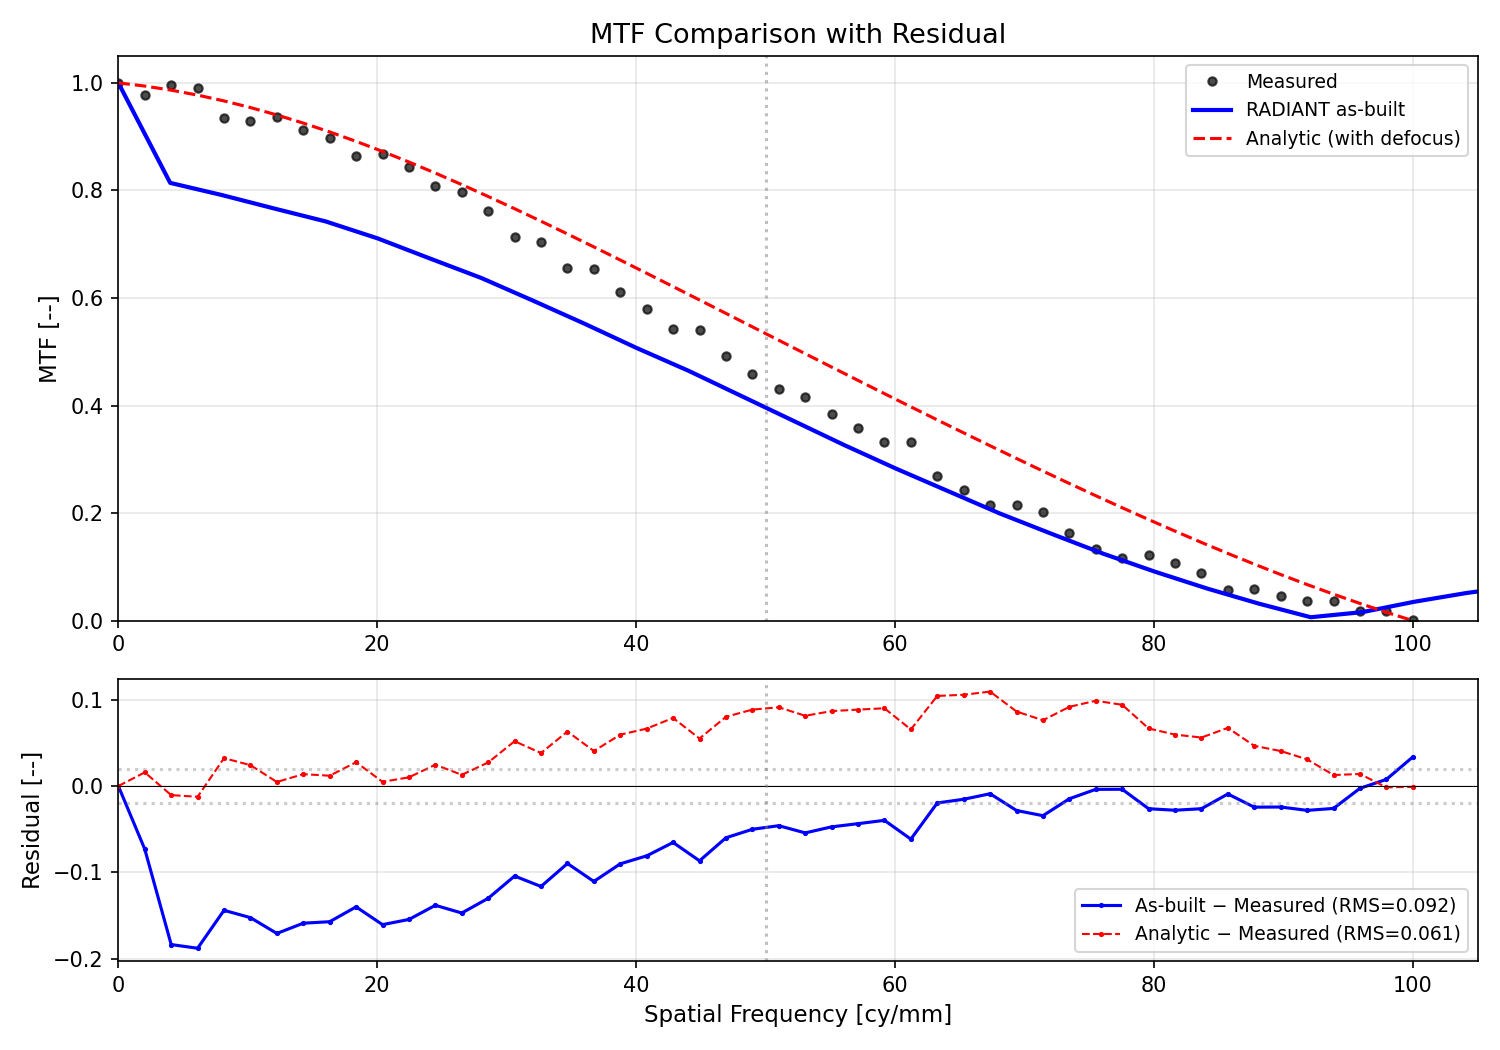
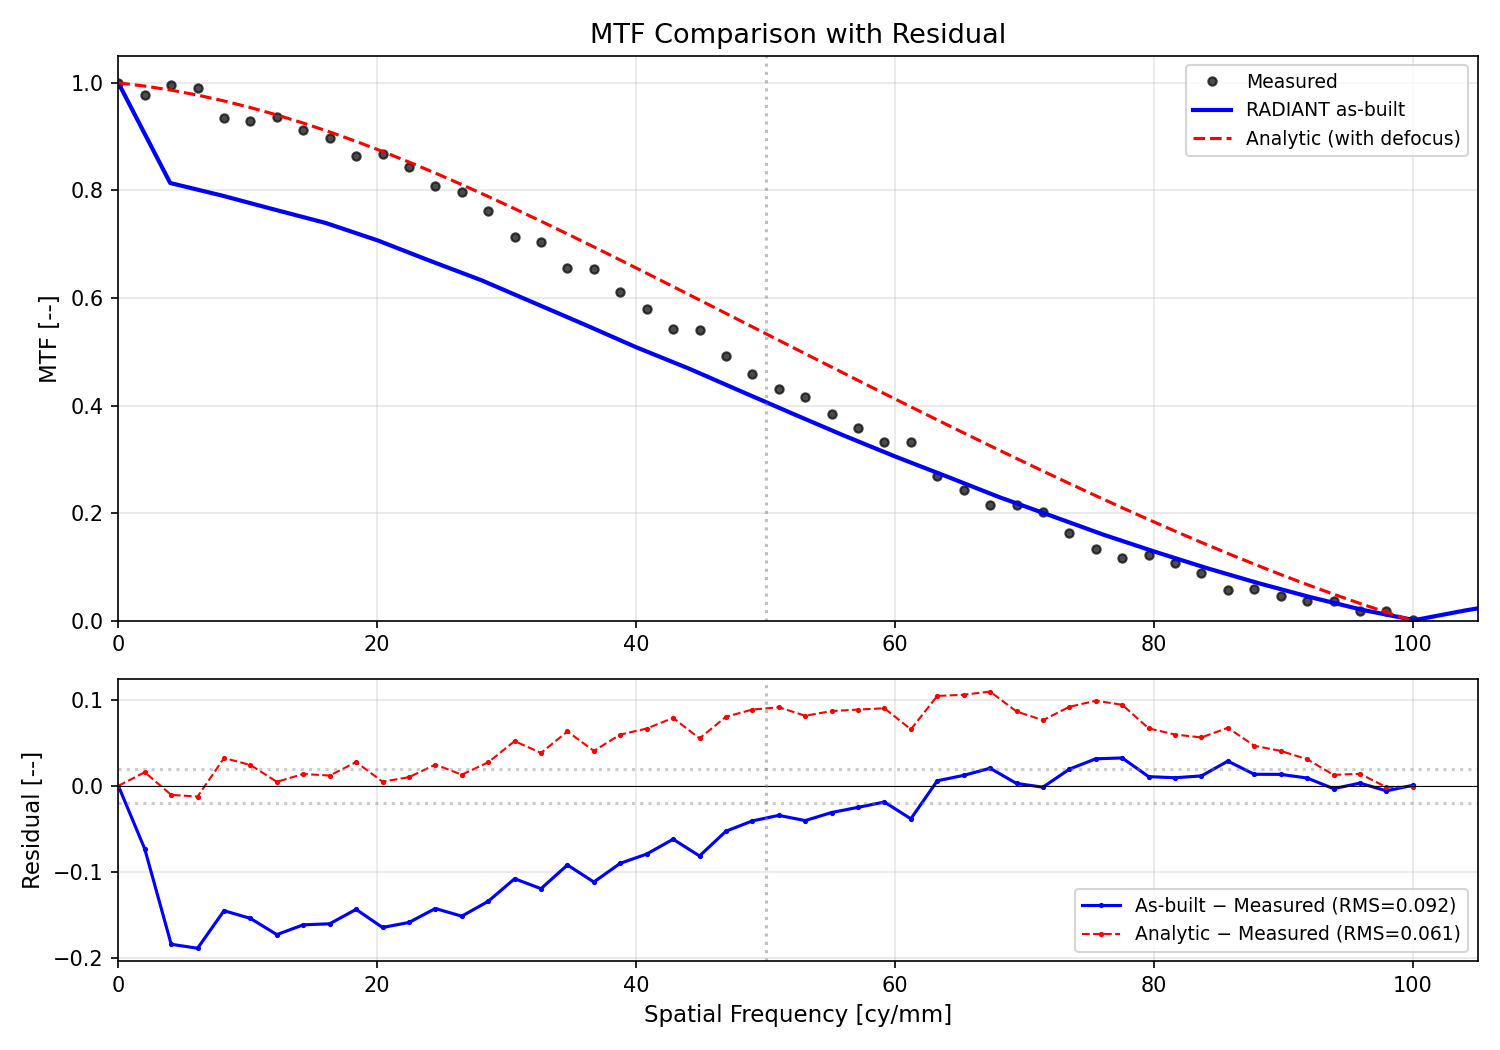
docs(scenarios): CU-176 — refresh 7.3 (MTF measurement vs prediction) numbers + figures
Lab MTF scenario (NIIRS N/A, no crash). Measured curve and the analytic composite
are fixed and unchanged; the RADIANT PSF-path prediction shifted with the engine:
predicted MTF@Ny 0.3962->0.4067 (now closer to the stable 0.4095 product-path
value), Strehl 0.8259->0.8206, RER 0.6719->0.6773, FWHM_x 10.79->10.18 um,
residual RMS 0.0921->0.0917. Refreshed the metrics table, comparison table,
residual-explainer grid, and defocus sweep. Both residual hypotheses still
rejected; the scalar-WFE shape-ambiguity conclusion stands.

diff --git a/scenarios/07_karen_test_engineer/7.3_mtf_measurement_vs_prediction/walkthrough.md b/scenarios/07_karen_test_engineer/7.3_mtf_measurement_vs_prediction/walkthrough.md
@@ -134,11 +134,11 @@ Component MTF curves are also computed analytically for comparison:
 
 | Metric | Value | Unit | Notes |
 |--------|-------|------|-------|
-| Strehl | 0.8259 | -- | Degraded-PSF peak over diffraction-limited reference |
-| RER | 0.6719 | -- | Relative edge response |
+| Strehl | 0.8206 | -- | Degraded-PSF peak over diffraction-limited reference |
+| RER | 0.6773 | -- | Relative edge response |
 | Q (center) | 0.195 | -- | Sampling parameter |
 | Q (min/max) | 0.165 / 0.225 | -- | Over band |
-| FWHM_x | 10.79 | um | PSF full-width half-max |
+| FWHM_x | 10.18 | um | PSF full-width half-max |
 | Well margin | 429.6 | dB | Very large: lab test, near-zero signal |
 | Dynamic range | 83.2 | dB | |
 | GSD | N/A | -- | Lab test (altitude = 0) |
@@ -166,7 +166,7 @@ Gaussian defocus kernel, and the consistency check failed at 0.169 vs 0.05
 on every run. Defocus is now pupil Z4 alongside the preserved screen on
 **both** paths: the budget's Optics term carries diffraction + obscuration +
 WFE + defocus from one pupil (0.6699), the product-path system (0.4095) now
-agrees with the PSF path (0.3962) to within the rect-kernel discretization
+agrees with the PSF path (0.4067) to within the rect-kernel discretization
 floor, and the consistency check passes.
 
 ### MTF at Nyquist (50 cy/mm)
@@ -174,7 +174,7 @@ floor, and the consistency check passes.
 | Source                    | MTF@Ny   | Notes                                    |
 |---------------------------|----------|------------------------------------------|
 | Measured (slanted-edge)   | 0.4441   | Karen's lab data                         |
-| RADIANT predicted         | 0.3962   | Includes defocus (pupil Z4), WFE, obscuration |
+| RADIANT predicted         | 0.4067   | Includes defocus (pupil Z4), WFE, obscuration |
 | Analytic (with defocus)   | 0.5339   | Includes all 4 analytic components       |
 
 ### MTF Comparison at Selected Frequencies
@@ -182,22 +182,22 @@ floor, and the consistency check passes.
 | Freq [cy/mm] | Measured | RADIANT  | Analytic | Resid(R)  | Resid(A)  |
 |---------------|----------|----------|----------|-----------|-----------|
 | 0             | 1.0000   | 1.0000   | 1.0000   | +0.0000   | +0.0000   |
-| 10            | 0.9304   | 0.7790   | 0.9554   | -0.1514   | +0.0250   |
-| 20            | 0.8669   | 0.7111   | 0.8763   | -0.1558   | +0.0094   |
-| 30            | 0.7284   | 0.6165   | 0.7728   | -0.1118   | +0.0445   |
-| 40            | 0.5922   | 0.5075   | 0.6559   | -0.0848   | +0.0636   |
-| 50 (Nyquist)  | 0.4441   | 0.3962   | 0.5339   | -0.0480   | +0.0897   |
-| 60            | 0.3322   | 0.2836   | 0.4123   | -0.0486   | +0.0801   |
-| 70            | 0.2114   | 0.1813   | 0.2946   | -0.0301   | +0.0831   |
-| 80            | 0.1185   | 0.0917   | 0.1837   | -0.0268   | +0.0652   |
-| 90            | 0.0444   | 0.0197   | 0.0839   | -0.0247   | +0.0395   |
-| 100           | 0.0010   | 0.0346   | 0.0000   | +0.0336   | -0.0010   |
+| 10            | 0.9304   | 0.7777   | 0.9554   | -0.1527   | +0.0250   |
+| 20            | 0.8669   | 0.7074   | 0.8763   | -0.1595   | +0.0094   |
+| 30            | 0.7284   | 0.6129   | 0.7728   | -0.1155   | +0.0445   |
+| 40            | 0.5922   | 0.5085   | 0.6559   | -0.0838   | +0.0636   |
+| 50 (Nyquist)  | 0.4441   | 0.4067   | 0.5339   | -0.0374   | +0.0897   |
+| 60            | 0.3322   | 0.3054   | 0.4123   | -0.0268   | +0.0801   |
+| 70            | 0.2114   | 0.2129   | 0.2946   | +0.0015   | +0.0831   |
+| 80            | 0.1185   | 0.1288   | 0.1837   | +0.0103   | +0.0652   |
+| 90            | 0.0444   | 0.0573   | 0.0839   | +0.0129   | +0.0395   |
+| 100           | 0.0010   | 0.0016   | 0.0000   | +0.0006   | -0.0010   |
 
 ### Residual Statistics (Predicted - Measured)
 
 | Model     | RMS    | Max    |
 |-----------|--------|--------|
-| RADIANT   | 0.0921 | 0.1876 |
+| RADIANT   | 0.0917 | 0.1882 |
 | Analytic  | 0.0606 | 0.1092 |
 
 (Computed by `compare_mtf`: 50 measured points compared, 0 excluded as
@@ -211,19 +211,19 @@ over a candidate grid and ranking by `compare_mtf` residual RMS:
 
 | σ_elec [µm] | Roughness [nm] | Resid RMS [--] | MTF@Ny [--] |
 |-------------|----------------|----------------|-------------|
-| 0.0 (as-built) | 0.0 | **0.0921** | 0.3962 |
-| 0.0 | 5.0 | 0.0962 | 0.3925 |
-| 1.0 | 0.0 | 0.0991 | 0.3773 |
-| 2.0 | 0.0 | 0.1222 | 0.3262 |
+| 0.0 (as-built) | 0.0 | **0.0917** | 0.4067 |
+| 0.0 | 5.0 | 0.0957 | 0.4029 |
+| 1.0 | 0.0 | 0.0972 | 0.3873 |
+| 2.0 | 0.0 | 0.1188 | 0.3348 |
 
 **Both hypotheses are rejected** — every added blur makes the fit worse. The
 diagnosis comes from the residual sign: the as-built prediction already sits
 *below* the measurement over most of the band (mean predicted − measured =
-−0.070), so additional blur can only widen the gap. The discrepancy is not a
+−0.059), so additional blur can only widen the gap. The discrepancy is not a
 missing degradation; it is the **shape ambiguity of the scalar-WFE input**: a
 single RMS number fixes the Strehl but not where the aberrated energy lands.
 RADIANT's random-phase-screen model puts it in a compact halo (immediate
-low-frequency MTF drop toward the Strehl plateau ≈ 0.83), while the actual
+low-frequency MTF drop toward the Strehl plateau ≈ 0.82), while the actual
 system's smooth aberrations keep low frequencies near 1. The fix is to feed
 RADIANT the as-built Zernike prescription via `io.load_zemax_zernike`
 (Gap 26 — exercised in scenario 5.1) so the pupil carries the true aberration
@@ -260,12 +260,12 @@ Kirchhoff's law).
 
 | Defocus [um] | Spot Radius [um] | MTF@Ny (system) | dMTF [%]  |
 |--------------|------------------|-----------------|-----------|
-| 0            | 0.000            | 0.3962          | 0.0       |
-| 1            | 0.167            | 0.3960          | -0.0      |
-| 2            | 0.333            | 0.3956          | -0.1      |
-| 5            | 0.833            | 0.3928          | -0.9      |
-| 10           | 1.667            | 0.3828          | -3.4      |
-| 15           | 2.500            | 0.3668          | -7.4      |
+| 0            | 0.000            | 0.4067          | 0.0       |
+| 1            | 0.167            | 0.4066          | -0.0      |
+| 2            | 0.333            | 0.4062          | -0.1      |
+| 5            | 0.833            | 0.4032          | -0.9      |
+| 10           | 1.667            | 0.3930          | -3.4      |
+| 15           | 2.500            | 0.3765          | -7.4      |
 
 Karen's 5 um defocus causes < 1% MTF loss at Nyquist — it is NOT the dominant
 contributor to the measurement gap. (Sweep now runs through the pupil-Z4
@@ -276,7 +276,7 @@ unchanged from the Gaussian approximation at these small defocus values.)
 
 ### RADIANT vs. Measured MTF
 
-The RADIANT prediction (MTF@Ny = 0.3962) is close to the measurement
+The RADIANT prediction (MTF@Ny = 0.4067) is close to the measurement
 (0.4441), with a residual RMS of 0.092.  This is a significant improvement over
 the pre-Phase-R version (which reported 0.6893 without defocus or proper WFE/
 obscuration modeling).
